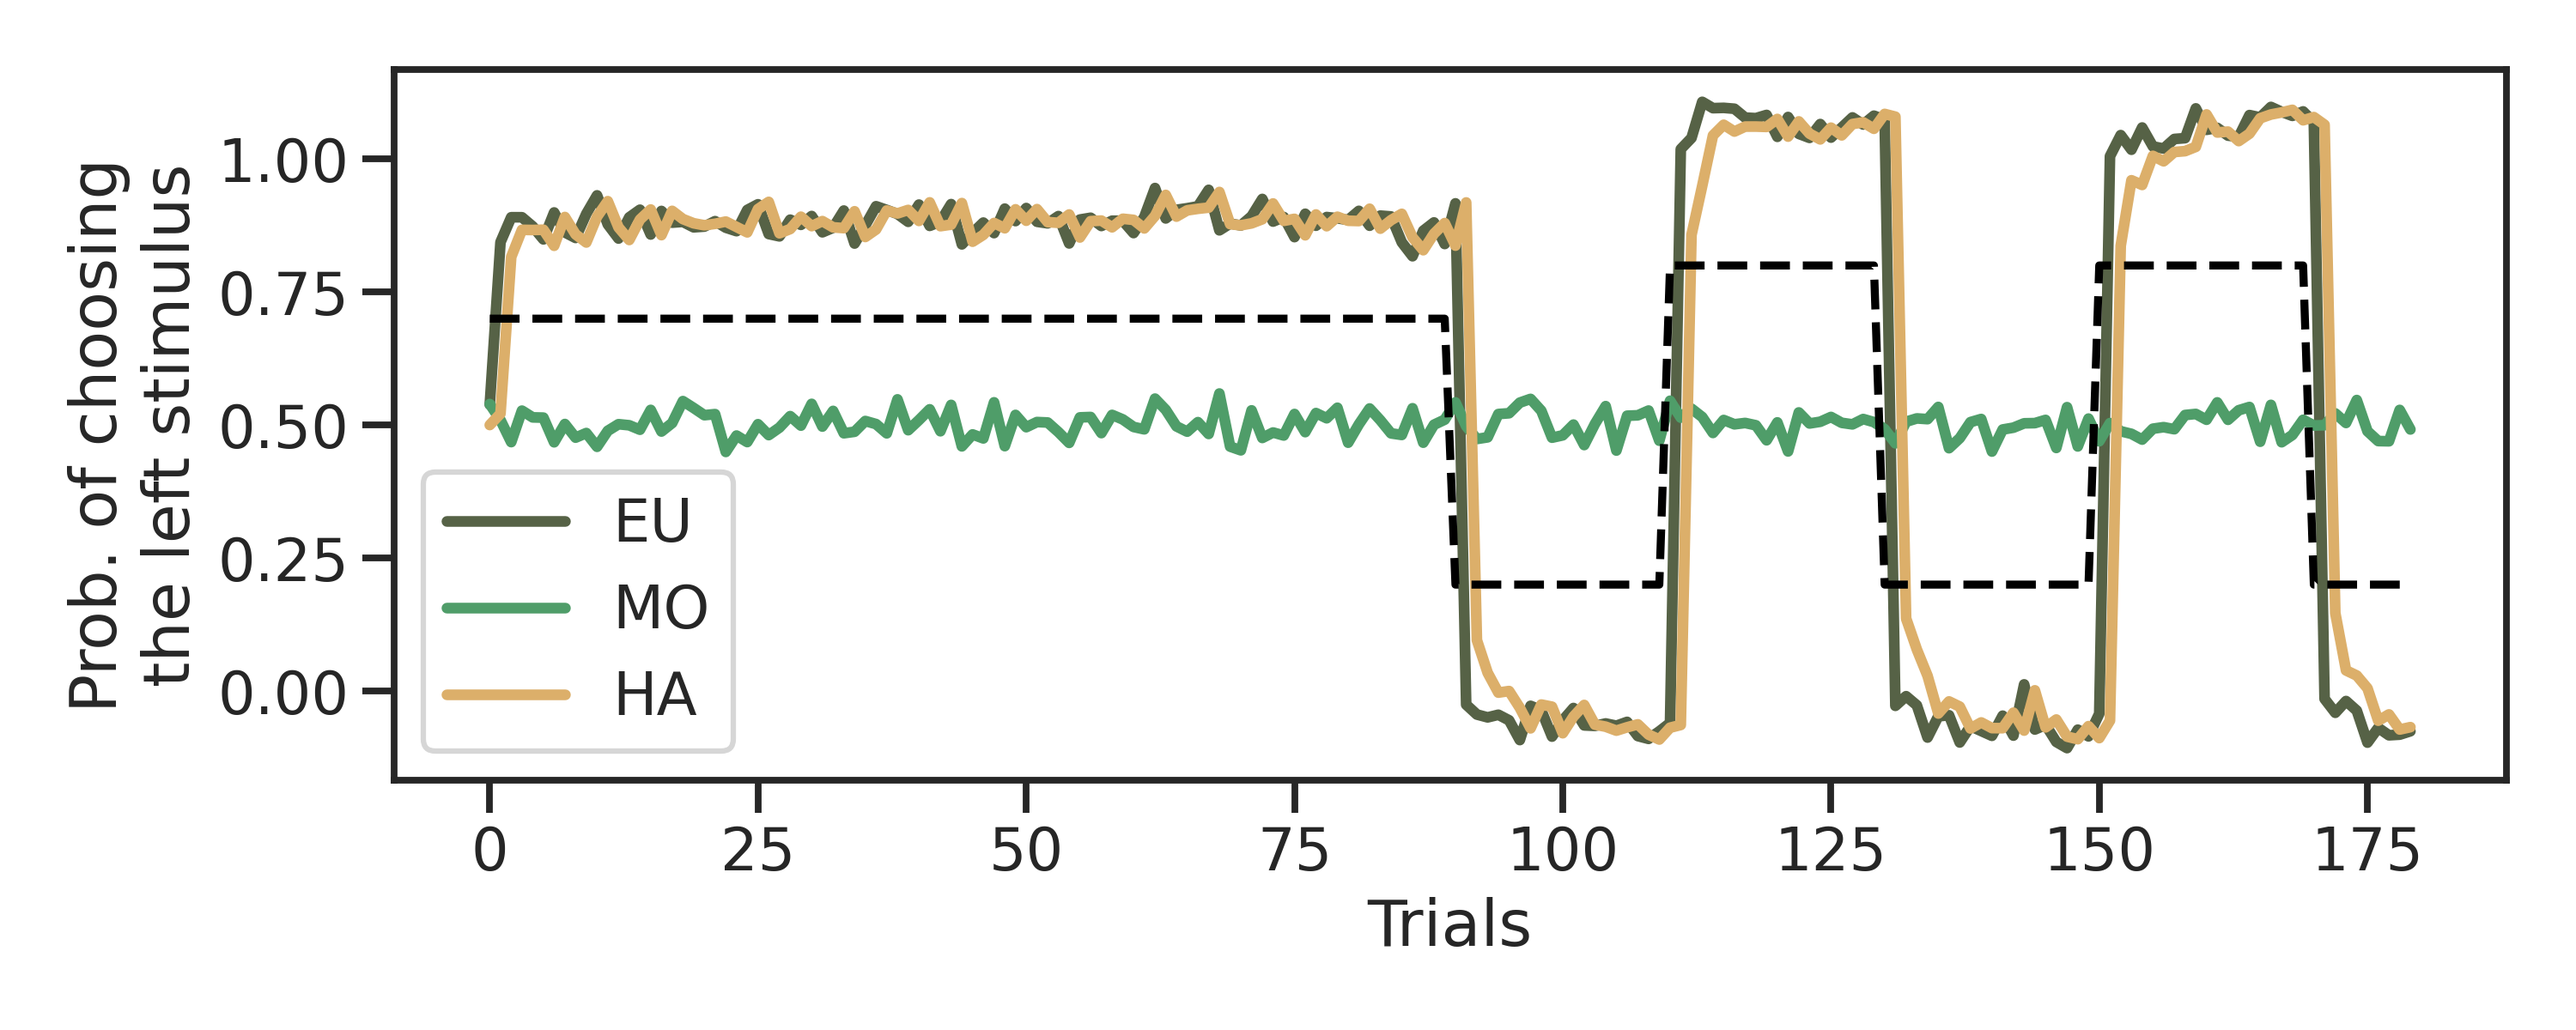
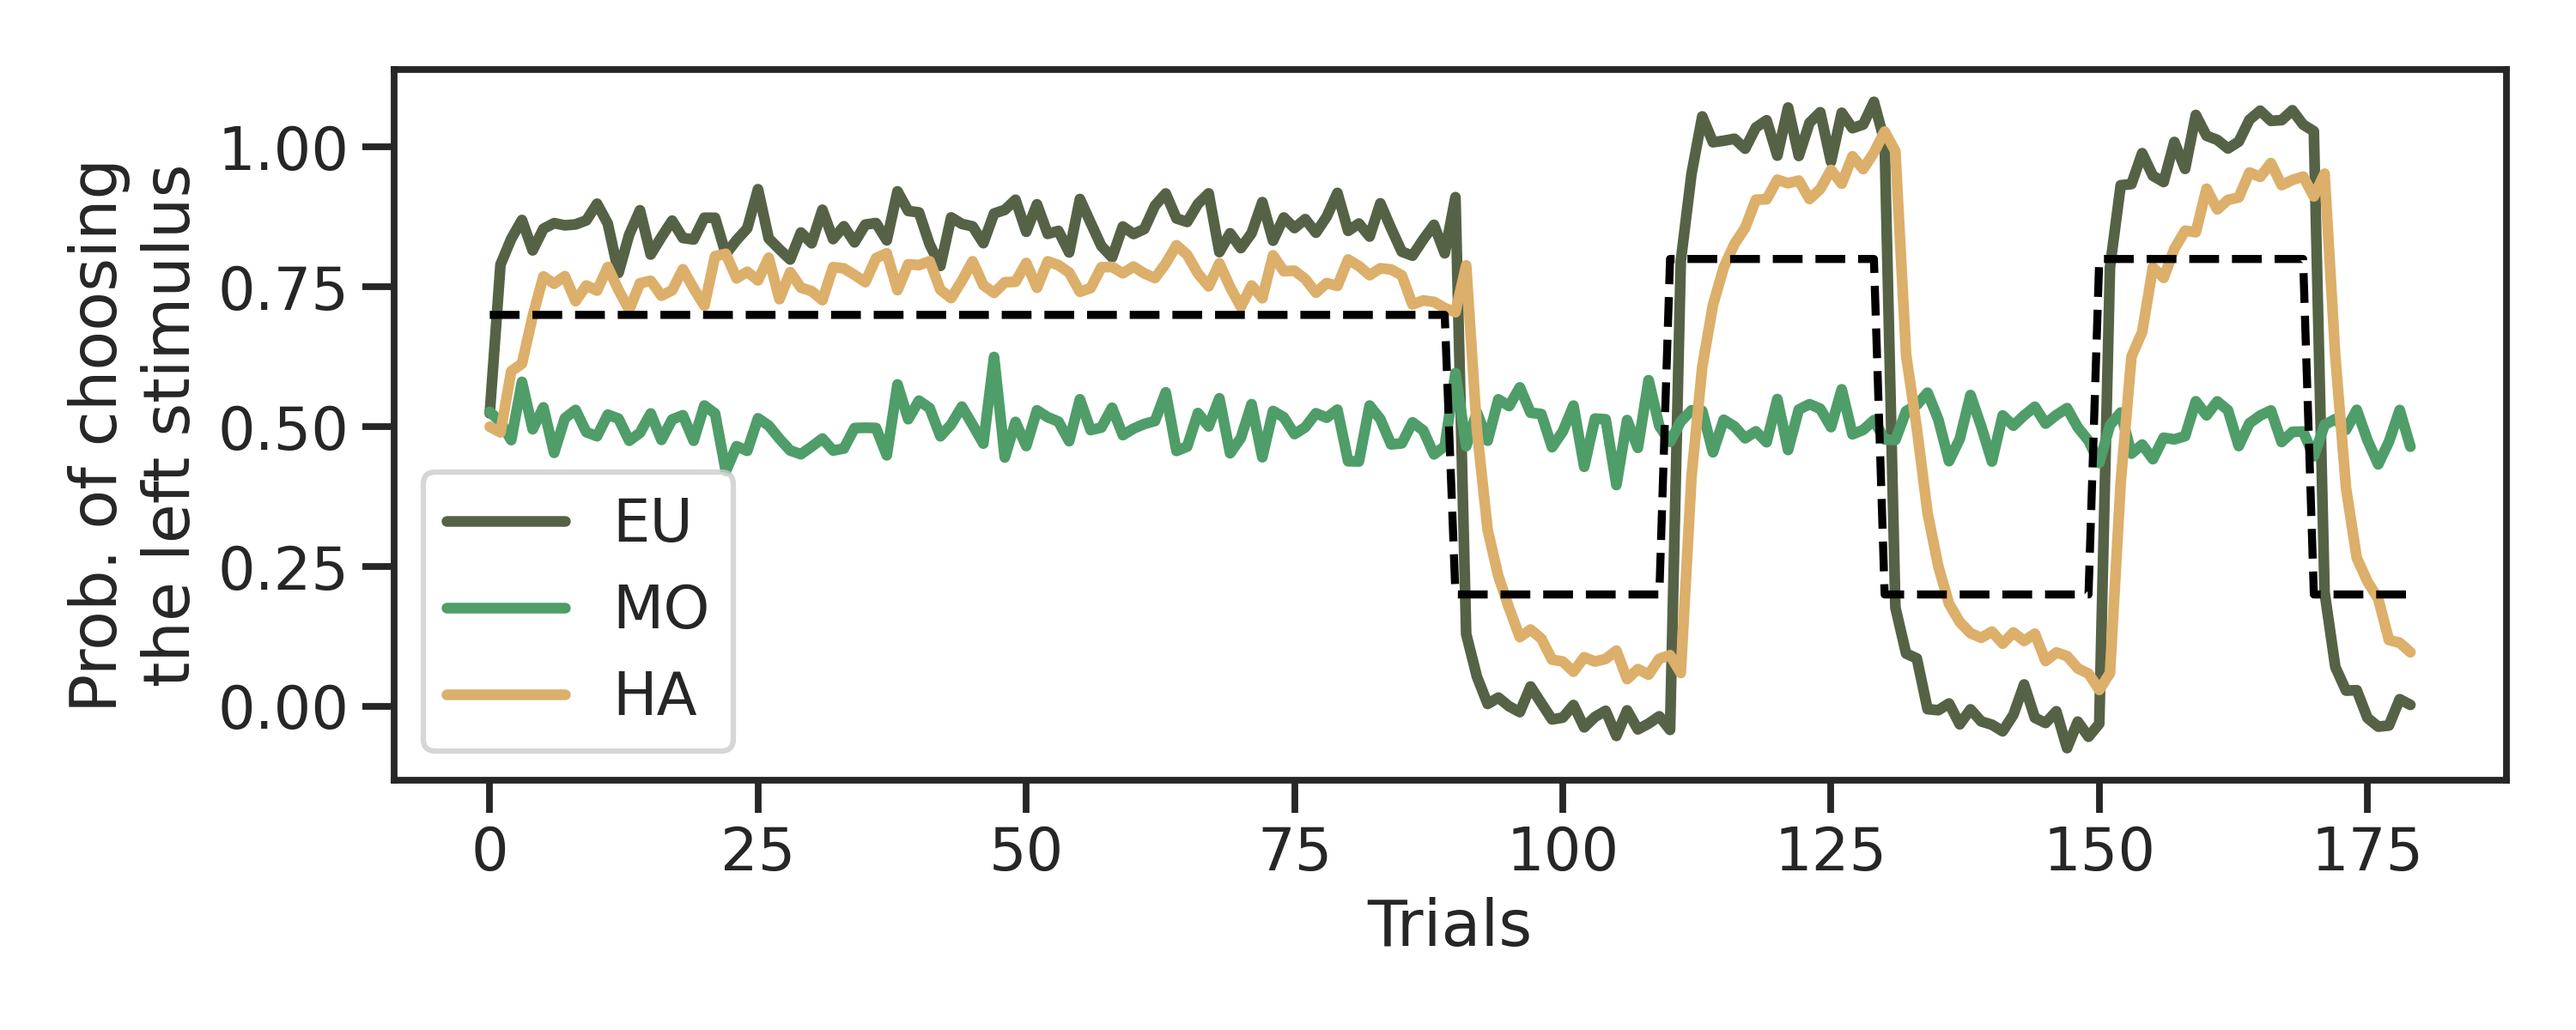
add lr effect

diff --git a/m3_visualize.py b/m3_visualize.py
@@ -1,6 +1,5 @@
 
 import os 
-import pickle
 
 import numpy as np
 import pandas as pd 
@@ -77,7 +76,6 @@ def viz_Human():
     ax=axs[1, 0]
     sns.boxplot(x='is_PAT', y='rew', data=data,  width=.65,
                     hue='b_type', palette=viz.Palette2, ax=ax)
-    #for_title = t_test(data, 'b_type=="sta"', 'b_type=="vol"', tar=['rew'])
     ax.set_xlim([-.8, 1.8])
     ax.set_ylim([0.18, 0.65])
     ax.set_xticks([0, 1])
@@ -91,39 +89,80 @@ def viz_Human():
     plt.tight_layout()
     plt.savefig(f'{path}/figures/Fig1_Human_data.png', dpi=300)
 
-def LR_effect():
+def LR_effect1():
 
-    feedback_types = ['gain', 'loss']
-    groups  = [0, 1]
-    tar    = ['log_alpha']
+    tar = ['log_alpha']
 
-    nr, nc = len(groups), len(feedback_types)
+    data = build_pivot_table('map', agent='MixPol', min_q=.01, max_q=.99)
+    data['is_PAT'] = data['group'].apply(lambda x: x!='HC')
+
+    nr, nc = 1, len(feedback_types)
     fig, axs = plt.subplots(nr, nc, figsize=(nc*4, nr*4), sharex='row')
-    for idx, f_type in enumerate(feedback_types):
-        for j, is_pat in enumerate(groups):
-            ax  = axs[j, idx]
-            data = build_pivot_table('map', agent='MixPol', min_q=.01, max_q=.99)
-            data['is_PAT'] = data['group'].apply(lambda x: x!='HC')
-            data = data.query(f'is_PAT=={is_pat} & feedback_type=="{f_type}"'
-                        ).groupby(by=['sub_id', 'b_type']).mean().reset_index()
-            print(f'---------{is_pat}: {f_type}')
-            ymin, ymax = data[tar[0]].min(), data[tar[0]].max()
-            t_test(data, 'b_type=="sta"', 'b_type=="vol"', tar=tar)
-            sns.boxplot(x='b_type', y=tar[0], data=data, width=.65,
-                            palette=viz.BluePairs, ax=ax)
-            ax.set_xlim([-.8, 1.8])
-            ax.set_xticks([0, 1])
-            ax.set_ylim([ymin-abs(ymin)*.2, ymax+abs(ymax-1)*.5])
-            ax.set_xticklabels(['Stable', 'Volatile'])
-            ax.set_ylabel('')
-            ax.set_xlabel('')
-            ax.set_box_aspect(1)
-        
-    plt.tight_layout()
-    plt.show()
-    plt.savefig(f'{path}/figures/Fig0_LR.png', dpi=300)
+    for i, f_type in enumerate(feedback_types):
 
-                
+        ax = axs[i]
+        sel_data = data.query(f'feedback_type=="{f_type}"')
+        ymin, ymax = sel_data[tar[0]].min(), sel_data[tar[0]].max()
+        t_test(sel_data, 'b_type=="sta"', 'b_type=="vol"', tar=tar)
+        sns.boxplot(x='b_type', y=tar[0], data=sel_data, 
+                        width=.65, palette=viz.BluePairs, ax=ax)
+        ax.set_xlim([-.8, 1.8])
+        ax.set_xticks([0, 1])
+        ax.set_ylim([ymin-abs(ymin)*.2, ymax+abs(ymax-1)*.5])
+        ax.set_xticklabels(['Stable', 'Volatile'])
+        ax.set_ylabel('')
+        ax.set_xlabel('')
+        ax.set_box_aspect(1)
+
+    plt.tight_layout()
+    plt.savefig(f'{path}/figures/Fig0_LR_effect1.png', dpi=300)
+
+def LR_effect2():
+    data = build_pivot_table('map', agent='MixPol', min_q=.01, max_q=.99)
+    data['is_PAT'] = data['group'].apply(lambda x: x!='HC')
+    vendors  = data['b_type'].unique()
+    data = pd.concat([data.set_index(['sub_id', 'is_PAT', 'feedback_type', 'g', 'f1', 'f2']).groupby('b_type'
+                    )['log_alpha'].get_group(key) for key in vendors],axis=1)
+    data.columns = ['sta', 'vol']
+    data['log_diff'] = data['sta'] - data['vol']
+    data.reset_index(inplace=True)
+    data = data.groupby(by=['sub_id']).mean().reset_index()
+    data = data.dropna()
+
+    syndromes = ['g', 'f1', 'f2']
+    nr, nc = 1, len(syndromes)
+    fig, axs = plt.subplots(nr, nc, figsize=(nc*4, nr*4), sharey=True)
+    tar = 'log_diff'
+    
+    for i, pred in enumerate(syndromes):
+
+        xmin, xmax = data[pred].values.min()-.4, data[pred].values.max()+.4
+        x = data[pred]
+        y = data[tar]
+        corr, pval = pearsonr(x.values, y.values)
+        x = sm.add_constant(x)
+        res = sm.OLS(y, x).fit()
+        #print(res.summary())
+        print(f' {tar}: r={corr}, p={pval}')
+        
+        ax  = axs[i]
+        x = np.linspace(xmin, xmax, 100)
+        sns.scatterplot(x=pred, y=tar, data=data, s=100, 
+                            color=viz.b1, ax=ax)
+        ax.set_xlim([xmin, xmax]) # for the regression predictor 
+        sns.regplot(x=pred, y=tar, data=data, truncate=False,
+                        color=[.2, .2, .2], scatter=False, ax=ax)
+        ax.set_ylabel(tar)
+        ax.set_xlabel(pred)
+        ax.set_xlim([xmin, xmax])
+        #ax.set_ylim([-3., 3.])
+        ax.set_box_aspect(1)
+
+
+    plt.tight_layout()
+    plt.savefig(f'{path}/figures/Fig0_LR_effect2.png', dpi=300)
+
+
 def HC_PAT_policy():
 
     tar    = ['l1', 'l2', 'l3']
@@ -146,10 +185,7 @@ def HC_PAT_policy():
         ax.set_ylabel('')
         ax.set_xlabel('')
         ax.set_box_aspect(1)
-        #ax.set_title(f'{titles[idx]}')
-        #ax.set_title(f'{titles[idx]} {for_title[idx]}')
-        # if idx == 1: ax.legend(bbox_to_anchor=(1.4, 0), loc='lower right')
-        # else: ax.get_legend().remove()
+
     plt.tight_layout()
     plt.show()
     plt.savefig(f'{path}/figures/Fig1_HC-PAT-policies.png', dpi=300)
@@ -157,14 +193,12 @@ def HC_PAT_policy():
 def Policy_Rew():
 
     tar    = ['l1', 'l2', 'l3']
-    titles = [r'$logit(w_{\text{EU}})$: EU', r'$logit(w_2)$: MO', r'$logit(w_3)$: HA']
 
     data = build_pivot_table('map', min_q=.01, max_q=.99)
     data['is_PAT'] = data['group'].apply(lambda x: x!='HC')
     data['rew'] = data['rew'].apply(lambda x: x*100)
     data['rawRew'] = data['rawRew'].apply(lambda x: x*100)
     xmin, xmax = -4.9, 4.9 
-    #data[tar].min().min()-.1, data[tar].max().max()+.1
 
     nr, nc = 2, len(tar)
     fig, axs = plt.subplots(nr, nc, figsize=(nc*4, nr*4), sharey='row', sharex='col')
@@ -180,8 +214,7 @@ def Policy_Rew():
             res = sm.OLS(y, x).fit()
             #print(res.summary())
             print(f' {feedback_type}-{lamb}: r={corr:.2f}, p={pval:.3f}')
-            #regress = lambda x: res.params['const'] + res.params[lamb]*x
-
+            
             ax  = axs[j, i]
             x = np.linspace(xmin, xmax, 100)
             sns.scatterplot(x=lamb, y='rawRew', data=sel_data, s=100, 
@@ -263,7 +296,7 @@ def pred_biFactor():
 
 def pi_effect():
 
-    fname = f'{path}/simulations/MixPol/simsubj-gain_exp1data-sta_first.csv'
+    fname = f'{path}/simulations/exp1data/MixPol/simsubj-exp1data-sta_first.csv'
     data = pd.read_csv(fname)
 
     data = data.groupby(by=['trials'])[['l1_effect', 'l2_effect', 'l3_effect']].mean()
@@ -288,14 +321,43 @@ def pi_effect():
     plt.tight_layout()
     plt.savefig(f'{path}/figures/effect.png', dpi=300)
 
+def Block_Group_effect():
+
+    tar = ['l1', 'l2', 'l3']
+   
+    nr, nc = 2, len(tar)
+    fig, axs = plt.subplots(nr, nc, figsize=(nc*4, nr*4), sharey=True, sharex=True)
+       
+    for j in range(2):
+        data = build_pivot_table('map', min_q=.01, max_q=.99)
+        data['is_PAT'] = data['group'].apply(lambda x: x!='HC')
+        sel_data = data.query(f'is_PAT=={j}').groupby(by=['sub_id', 'b_type', 'feedback_type']).mean().reset_index()
+        t_test(sel_data, 'b_type=="sta"', 'b_type=="vol"', tar=tar)
+        for idx in range(nc):
+            ax  = axs[j, idx]
+            sns.boxplot(x='b_type', y=f'{tar[idx]}', data=sel_data, width=.65,
+                            palette=viz.BluePairs, ax=ax)
+            ax.set_xlim([-.8, 1.8])
+            ax.set_ylim([-5, 5.8])
+            ax.set_xticks([0, 1])
+            ax.set_xticklabels(['Stable', 'Volatile'])
+            ax.set_ylabel('')
+            ax.set_xlabel('')
+            ax.set_box_aspect(1)
+        
+    plt.tight_layout()
+    plt.show()
+    plt.savefig(f'{path}/figures/Fig4_block-group-policies.png', dpi=300)
 
 if __name__ == '__main__':
 
     #quantTable()
     #viz_Human()
-    LR_effect()
+    #LR_effect1()
+    #LR_effect2()
     #viz_PiReward()
-    HC_PAT_policy()
+    #HC_PAT_policy()
     #Policy_Rew()
     #pred_biFactor()
-    #pi_effect()
+    pi_effect()
+    #Block_Group_effect()

diff --git a/m2_simulate.py b/m2_simulate.py
@@ -90,10 +90,10 @@ def sim_subj_paral(pool, args):
         sim_sta_first += sim_data['sta_first']
         sim_vol_first += sim_data['vol_first']
     
-    fname = f'{path}/simulations/{args.agent_name}/simsubj-{args.data_set}-sta_first.csv'
+    fname = f'{path}/simulations/{args.data_set}/{args.agent_name}/simsubj-{args.data_set}-sta_first.csv'
     sim_sta_first = pd.concat(sim_sta_first, ignore_index=True)
     sim_sta_first.to_csv(fname, index = False, header=True)
-    fname = f'{path}/simulations/{args.agent_name}/simsubj-{args.data_set}-vol_first.csv'
+    fname = f'{path}/simulations/{args.data_set}/{args.agent_name}/simsubj-{args.data_set}-vol_first.csv'
     sim_vol_first = pd.concat(sim_vol_first, ignore_index=True)
     sim_vol_first.to_csv(fname, index = False, header=True)
 
@@ -127,7 +127,11 @@ def sim_subj(seed, n_samples=3):
        
     # decide what to collect
     subj   = model(MixPol)
-    params = [6.0711,6.3353,6.2796,27.3466,7.9464,-7.0917,2.6326,3.6068,-6.1563,0.4109]
+    params = [3.9758,9.5894,
+              4.4965,0.4819,-0.5593,0.0775,
+              4.857,0.1365,-0.1603,0.0238,
+              4.3274,0.7131,-0.7087,-0.0042,
+              4.7329,0.4153,-0.3411,-0.0745,]
     rng    = np.random.RandomState(seed)
     
     # simulate block n times
@@ -145,6 +149,7 @@ def sim_subj(seed, n_samples=3):
             'state':  state.astype(int),
             'psi':    psi,
             'trials': list(range(180)),
+            'feedback_type': ['gain']*180,
         }
         task = pd.DataFrame.from_dict(task)
         
@@ -167,7 +172,7 @@ if __name__ == '__main__':
     with open(fname, 'rb') as handle: data=pickle.load(handle)
 
     # STEP 2: SYNTHESIZE DATA
-    sim_paral(pool, data, args)
+    #sim_paral(pool, data, args)
 
-    ## STEP 3: SIM SUBJECT
-    #sim_subj_paral(pool, args)
+    # STEP 3: SIM SUBJECT
+    sim_subj_paral(pool, args)
